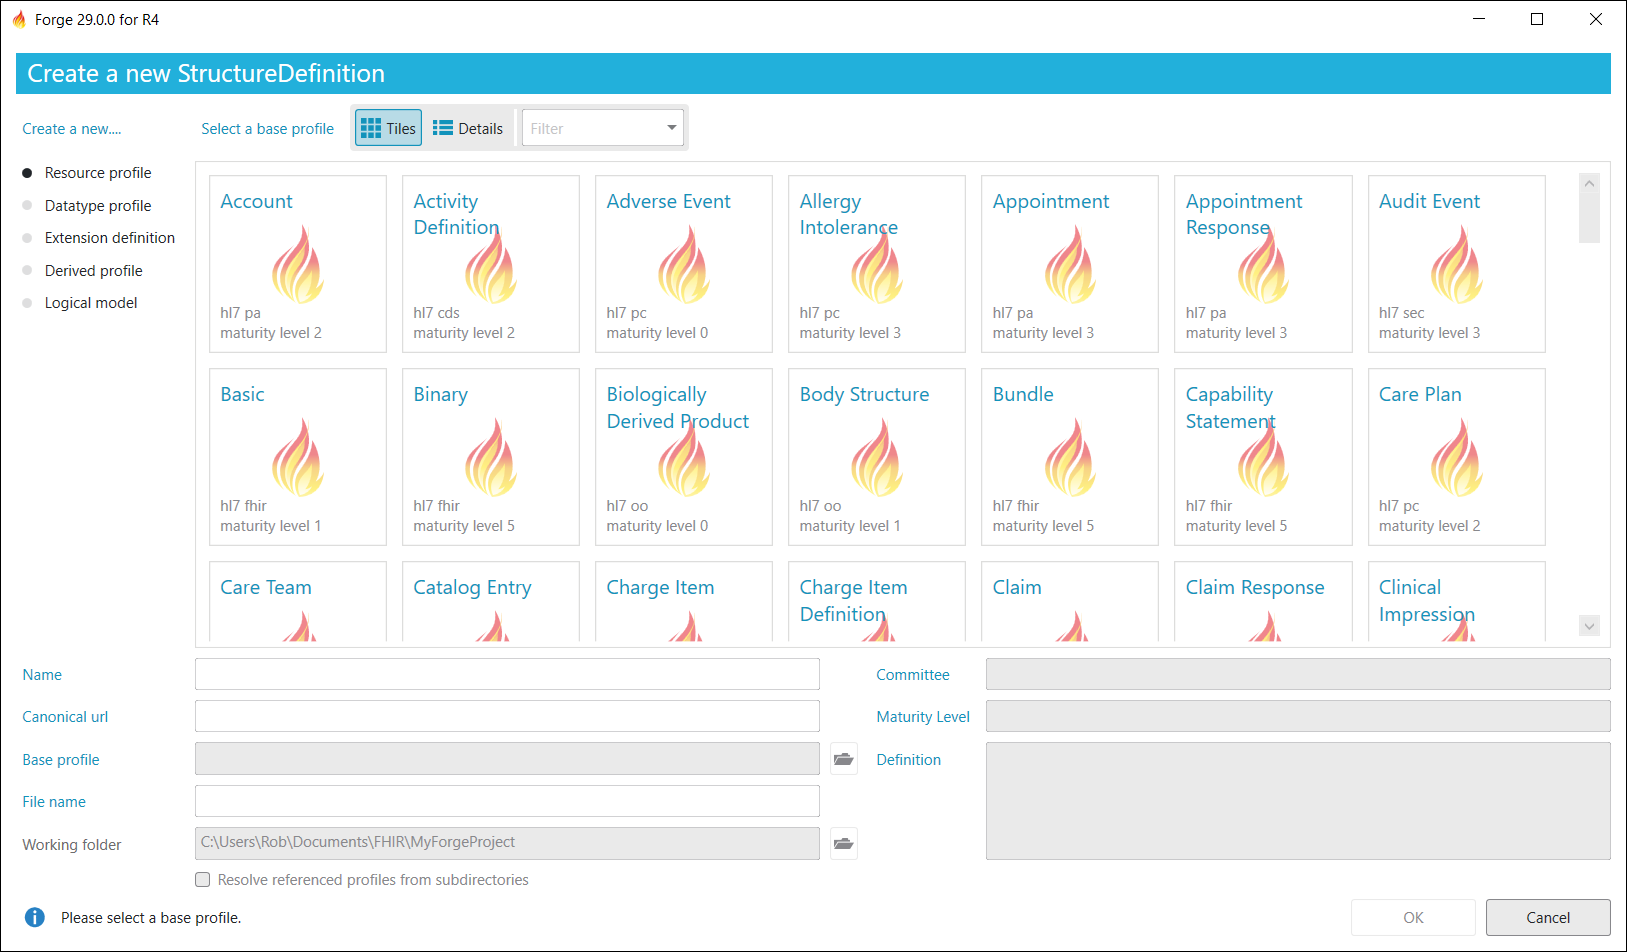
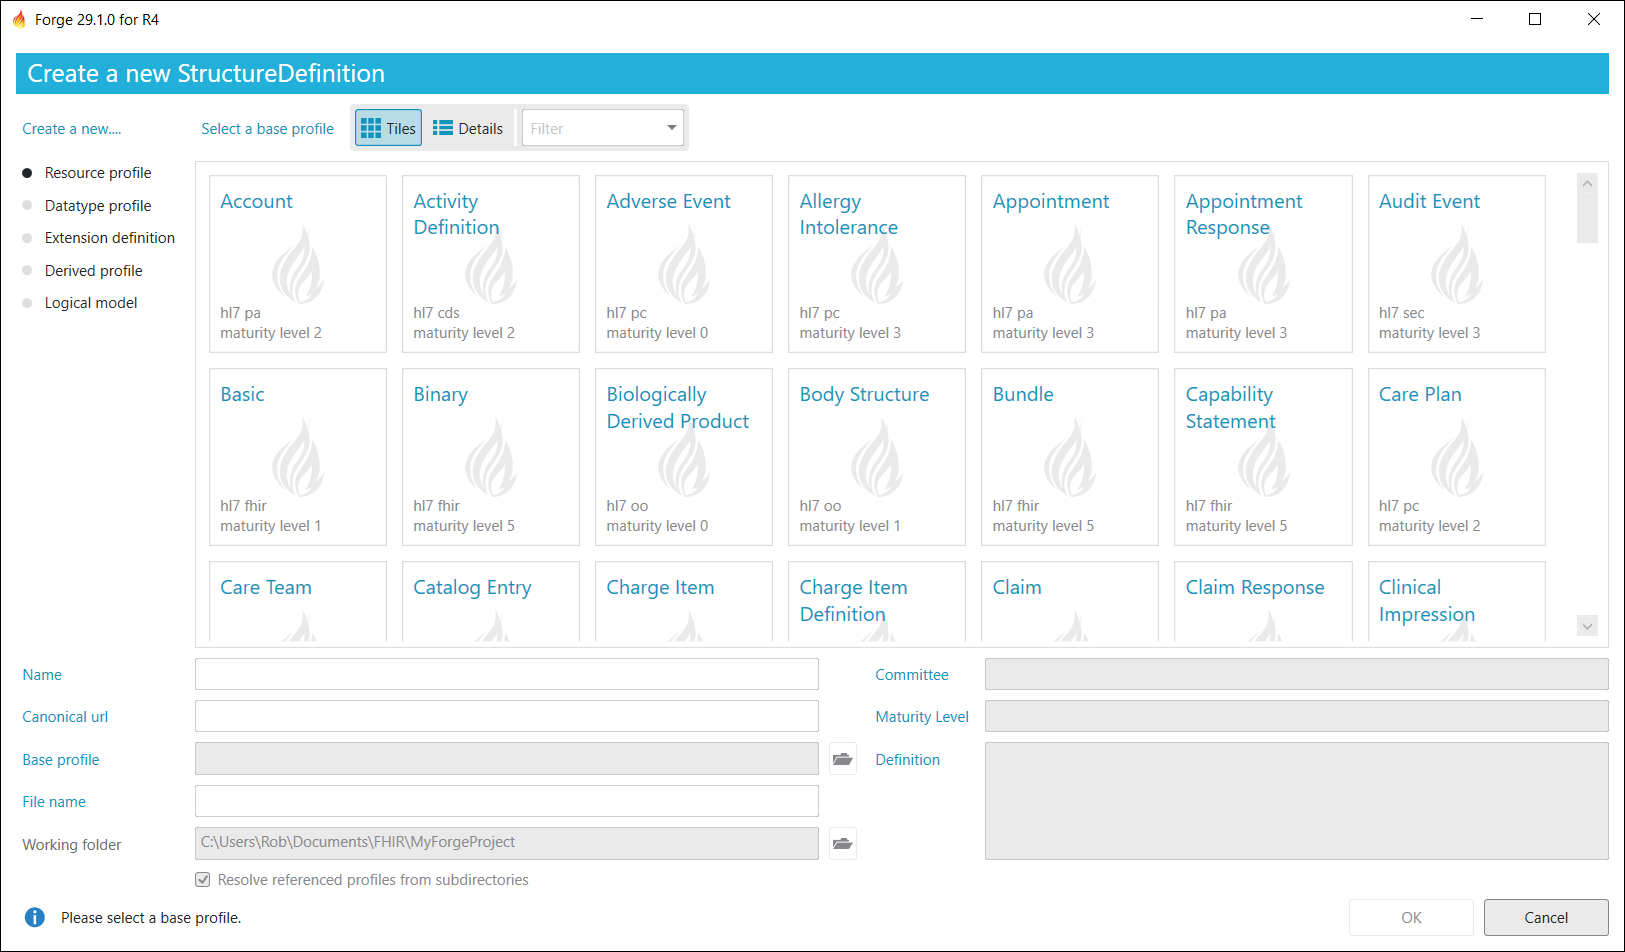
Updated release notes and screenshot for version 29.1

diff --git a/ReleaseNotes.rst b/ReleaseNotes.rst
@@ -7,6 +7,29 @@
 
    OldReleaseNotes
 
+Release 29.1
+------------
+Changes
+^^^^^^^
+* Added a **File format settings** menu option for specifying the indent size used in Xml and Json files.
+* The **Create a new StructureDefinition** dialog now checks for an already existing canonical url and/or file name in your project.
+* You can now run Forge for a limited time if your internet connection is down.
+* The **Resolve resources from subdirectories** option is now turned on by default.
+
+Bug fixes
+^^^^^^^^^
+* User settings were not retained when updating to a new version of Forge.
+* The **Save As...** option now works as expected (the document properties are updated to the new file name).
+* When selecting the **Extension** type in the **Select Extension Context** dialog, the element tree was not rendered correctly.
+* Slice naming checks were incorrectly applied to element names for logical models.
+* When the source of an element constraint is empty it is no longer initialized to the canonical url of profile itself when it is opened in Forge.
+* Forge now suggests **extension.value** for *slicing.discriminator.path* instead of **extension.value[x]**.
+* When linking a project folder to a project on Simplifier, double clicking a disabled item would still allow you to continue.
+* The project list view was not updated correctly after installing a package in an empty project folder.
+* Columns of list views can no longer be collapsed completely.
+* Fixed various minor UI styling issues.
+* **[R4B-R5]** Added support for opening files with an unknown FHIR version. The unknown FHIR version must be a variant of a known published FHIR versions (e.g. "4.3.0-unknown" or "4.3.0"). The version in the resource is updated to the latest version known by Forge.
+
 Release 29.0
 ------------
 Changes
@@ -190,65 +213,6 @@ Bug fixes
 * The XML order of extension definitions within a slice was wrong and has been corrected
 * **[R4-R5]** Removed duplicate 'Type(s)' in Element Property
 
-Release 24.2
-------------
 
-R5 Support
-^^^^^^^^^^
-The first release of Forge for FHIR R5 on April 7, 2020. This alpha release is 
-based on FHIR preview release 4.2.0, which is part of the FHIR R5 version range
 
-.. note::
-  Please note that as both the FHIR version and this Forge alpha version are 
-  far from definitive, Forge 24.2 alpha may or may not contain unexpected errors 
-  and missing functionality.
 
-Changes
-^^^^^^^
-* A link has been added pointing to your portal page on Simplifier.net (in the menu under your profile picture)
-* **[R4]** Forge would inherit normative extensions from the FHIR specification. Although formally correct, inheritance has been disabled for now
-  Extensions in existing profiles can be removed by opening and then saving the profile.
-
-Bug fixes
-^^^^^^^^^
-* Unjustified message 'Cannot further constrain a fixed value that is defined in a base profile' when using an extension in a profile has been removed.
-* Forge no longer reports an error when FHIR Core extensions are referenced.
-* Selecting particular extension contexts in Forge 24.1 would lead to some nasty errors, which have been corrected.
-* FHIR path expressions in JSON or XML now contain 'or' instead of the faulty '|' as a logical operator.
-* Preview packages now show up again in the package search.
-* **[STU3]** Upon creating a subsequent slice, Forge would inadvertedly copy values from the existing slice .
-
-Release 24.1
-------------
-Updating to .NET API 1.5, which incorporates the technical correction in FHIR release 4.0.1 (R4) or 3.0.2 (STU3).
-
-Changes
-^^^^^^^
-* Opening and editing FHIR 4.0.1 (R4) and 3.0.2 (STU3) profiles is now possible.
-* New profiles are automatically FHIR 4.0.1 (R4) and 3.0.2 (STU3) profiles.
-* **[STU3]** Forge now retains manually added extensions to a profile.
-* **[R4]** Restored the slicing header element for sliced elements of type value[x], since implicit slicing
-  is not supported by other tools (yet).
-
-Bug fixes
-^^^^^^^^^
-* Forge is signed with a renewed certificate.
-* Edited cardinality on a type slice would not be loaded from a profile correctly.
-* Any overridden slicing detail would remove all remaining slicing details.
-
-Release 24.0 
-------------
-This Sydney 2020 Edition release introduces a tighter coupling with Simplifier.net, simplifying the way Forge integrates with Simplifier.net.
-
-Changes
-^^^^^^^
-* The new Forge license makes the new pricing model official, differentiating between paid license plans 
-  and Forge Community Edition, which remains free for non-commercial use.
-* You now log in to Simplifier.net when you start Forge. The separate logins for import/export from/to
-  Simplifier.net are removed.
-* Incompatible packages are omitted from the package result list. Package versions implementing a FHIR 
-  version not supported by Forge can not be added anymore.
-* A package search without results now clears the result list.
-* Clickthrough on resource warnings (bottom pane) is restored.
-
-For known issues, please check: :ref:`known-issues`.

diff --git a/OldReleaseNotes.rst b/OldReleaseNotes.rst
@@ -3,6 +3,69 @@
 Old release notes
 =================
 
+Release 24.2
+------------
+
+R5 Support
+^^^^^^^^^^
+The first release of Forge for FHIR R5 on April 7, 2020. This alpha release is 
+based on FHIR preview release 4.2.0, which is part of the FHIR R5 version range
+
+.. note::
+  Please note that as both the FHIR version and this Forge alpha version are 
+  far from definitive, Forge 24.2 alpha may or may not contain unexpected errors 
+  and missing functionality.
+
+Changes
+^^^^^^^
+* A link has been added pointing to your portal page on Simplifier.net (in the menu under your profile picture)
+* **[R4]** Forge would inherit normative extensions from the FHIR specification. Although formally correct, inheritance has been disabled for now
+  Extensions in existing profiles can be removed by opening and then saving the profile.
+
+Bug fixes
+^^^^^^^^^
+* Unjustified message 'Cannot further constrain a fixed value that is defined in a base profile' when using an extension in a profile has been removed.
+* Forge no longer reports an error when FHIR Core extensions are referenced.
+* Selecting particular extension contexts in Forge 24.1 would lead to some nasty errors, which have been corrected.
+* FHIR path expressions in JSON or XML now contain 'or' instead of the faulty '|' as a logical operator.
+* Preview packages now show up again in the package search.
+* **[STU3]** Upon creating a subsequent slice, Forge would inadvertedly copy values from the existing slice .
+
+Release 24.1
+------------
+Updating to .NET API 1.5, which incorporates the technical correction in FHIR release 4.0.1 (R4) or 3.0.2 (STU3).
+
+Changes
+^^^^^^^
+* Opening and editing FHIR 4.0.1 (R4) and 3.0.2 (STU3) profiles is now possible.
+* New profiles are automatically FHIR 4.0.1 (R4) and 3.0.2 (STU3) profiles.
+* **[STU3]** Forge now retains manually added extensions to a profile.
+* **[R4]** Restored the slicing header element for sliced elements of type value[x], since implicit slicing
+  is not supported by other tools (yet).
+
+Bug fixes
+^^^^^^^^^
+* Forge is signed with a renewed certificate.
+* Edited cardinality on a type slice would not be loaded from a profile correctly.
+* Any overridden slicing detail would remove all remaining slicing details.
+
+Release 24.0 
+------------
+This Sydney 2020 Edition release introduces a tighter coupling with Simplifier.net, simplifying the way Forge integrates with Simplifier.net.
+
+Changes
+^^^^^^^
+* The new Forge license makes the new pricing model official, differentiating between paid license plans 
+  and Forge Community Edition, which remains free for non-commercial use.
+* You now log in to Simplifier.net when you start Forge. The separate logins for import/export from/to
+  Simplifier.net are removed.
+* Incompatible packages are omitted from the package result list. Package versions implementing a FHIR 
+  version not supported by Forge can not be added anymore.
+* A package search without results now clears the result list.
+* Clickthrough on resource warnings (bottom pane) is restored.
+
+
+
 Forge 23.0 for R4 - Fall 2019 Edition
 -------------------------------------
 This is a stability release that fixes a couple of issues in the previous release.
